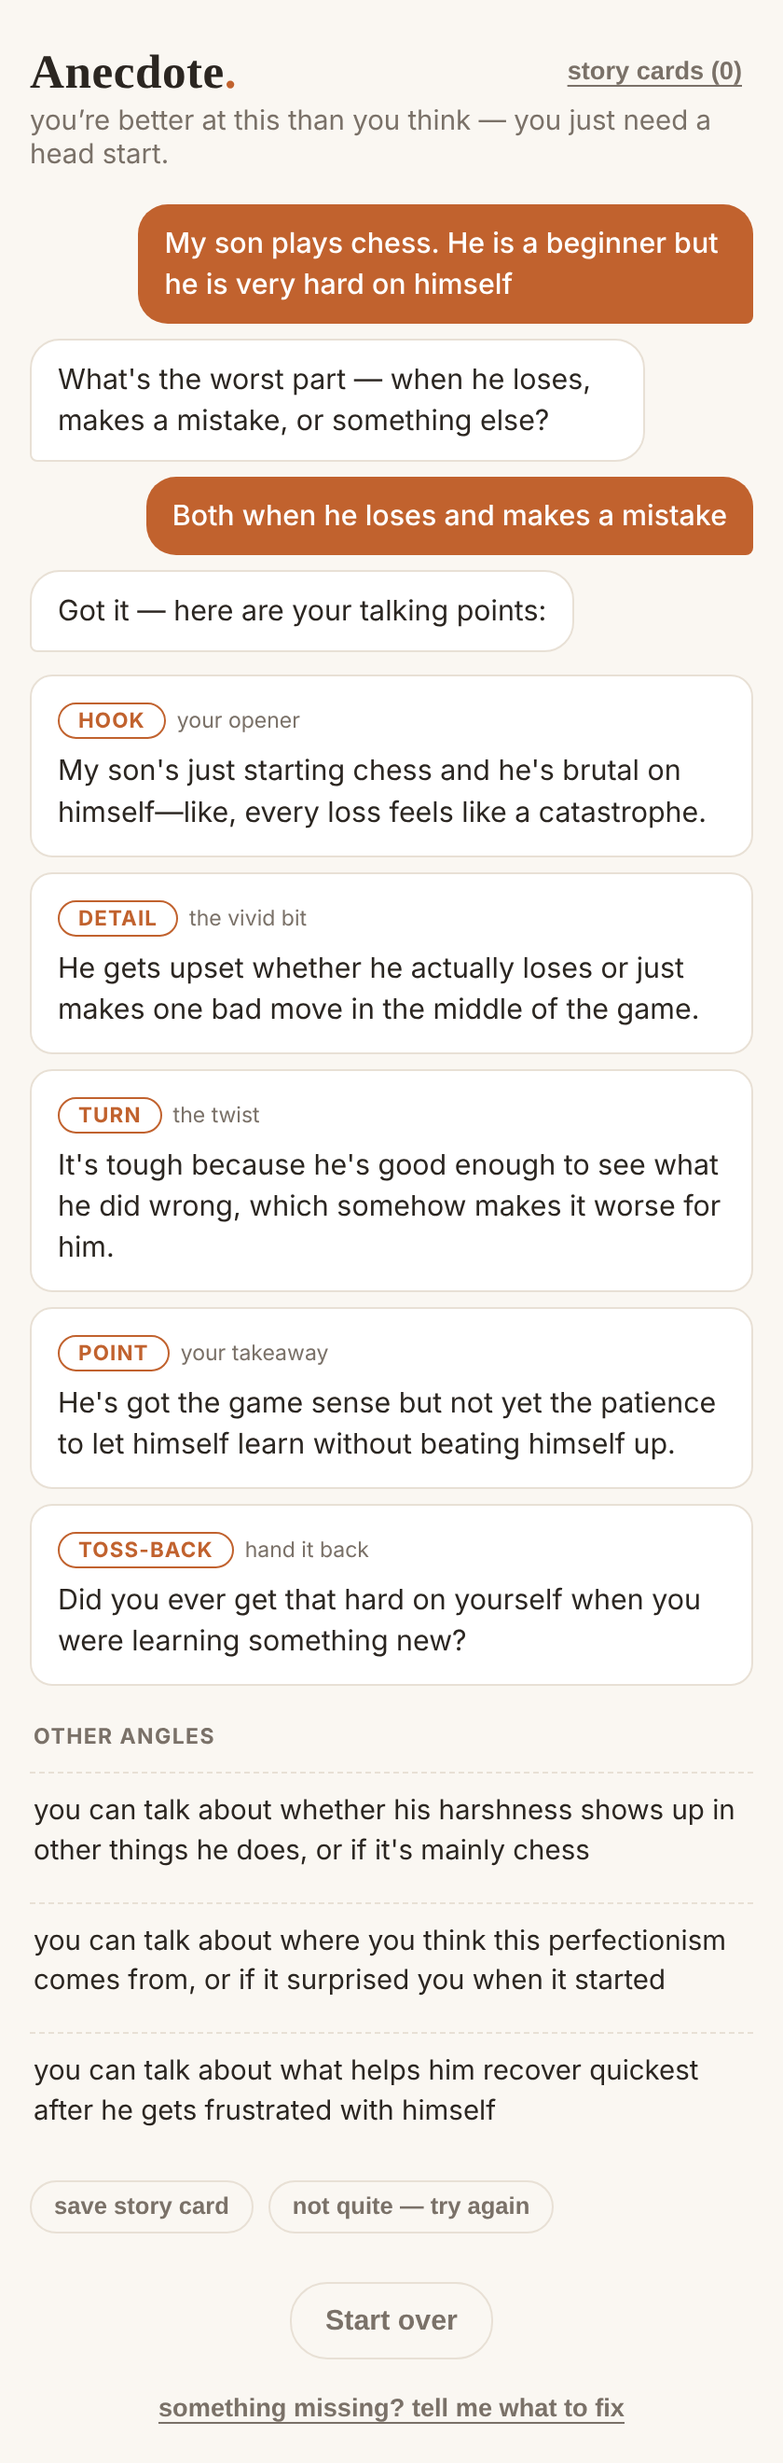
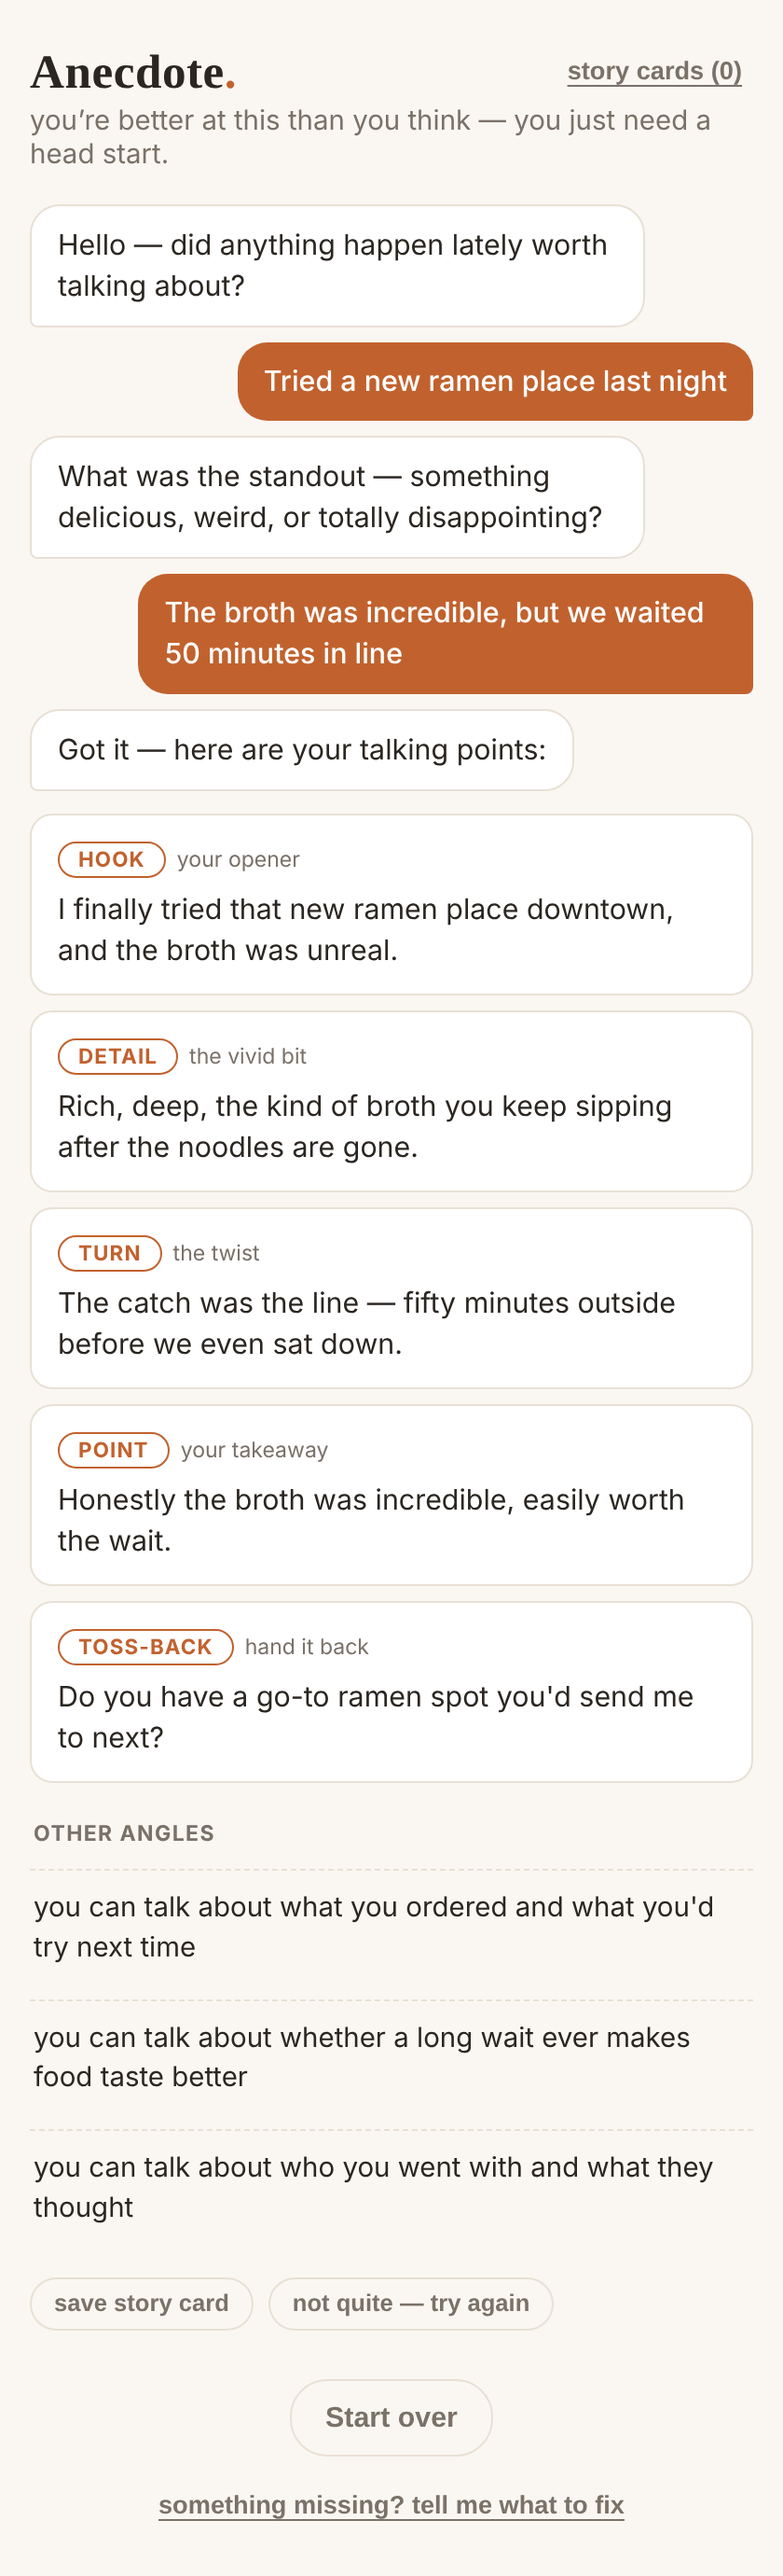
README: use ramen example screenshot

diff --git a/README.md b/README.md
@@ -8,7 +8,7 @@ Anecdote isn't a script and it isn't a story to memorize. It gives you a **menta
 
 **Try it: [anecdote4u.com](https://anecdote4u.com)** — it's friends-only for now, but the welcome page has a "curious what it looks like?" demo you can watch without a password, and a form to request one.
 
-<p align="center"><img src="images/anecdote-chat.png" alt="Anecdote chat: a topic about a son learning chess turns into tagged talking points" width="340"></p>
+<p align="center"><img src="images/anecdote-chat.png" alt="Anecdote chat: a topic about trying a new ramen place turns into tagged talking points" width="340"></p>
 
 ---
 
